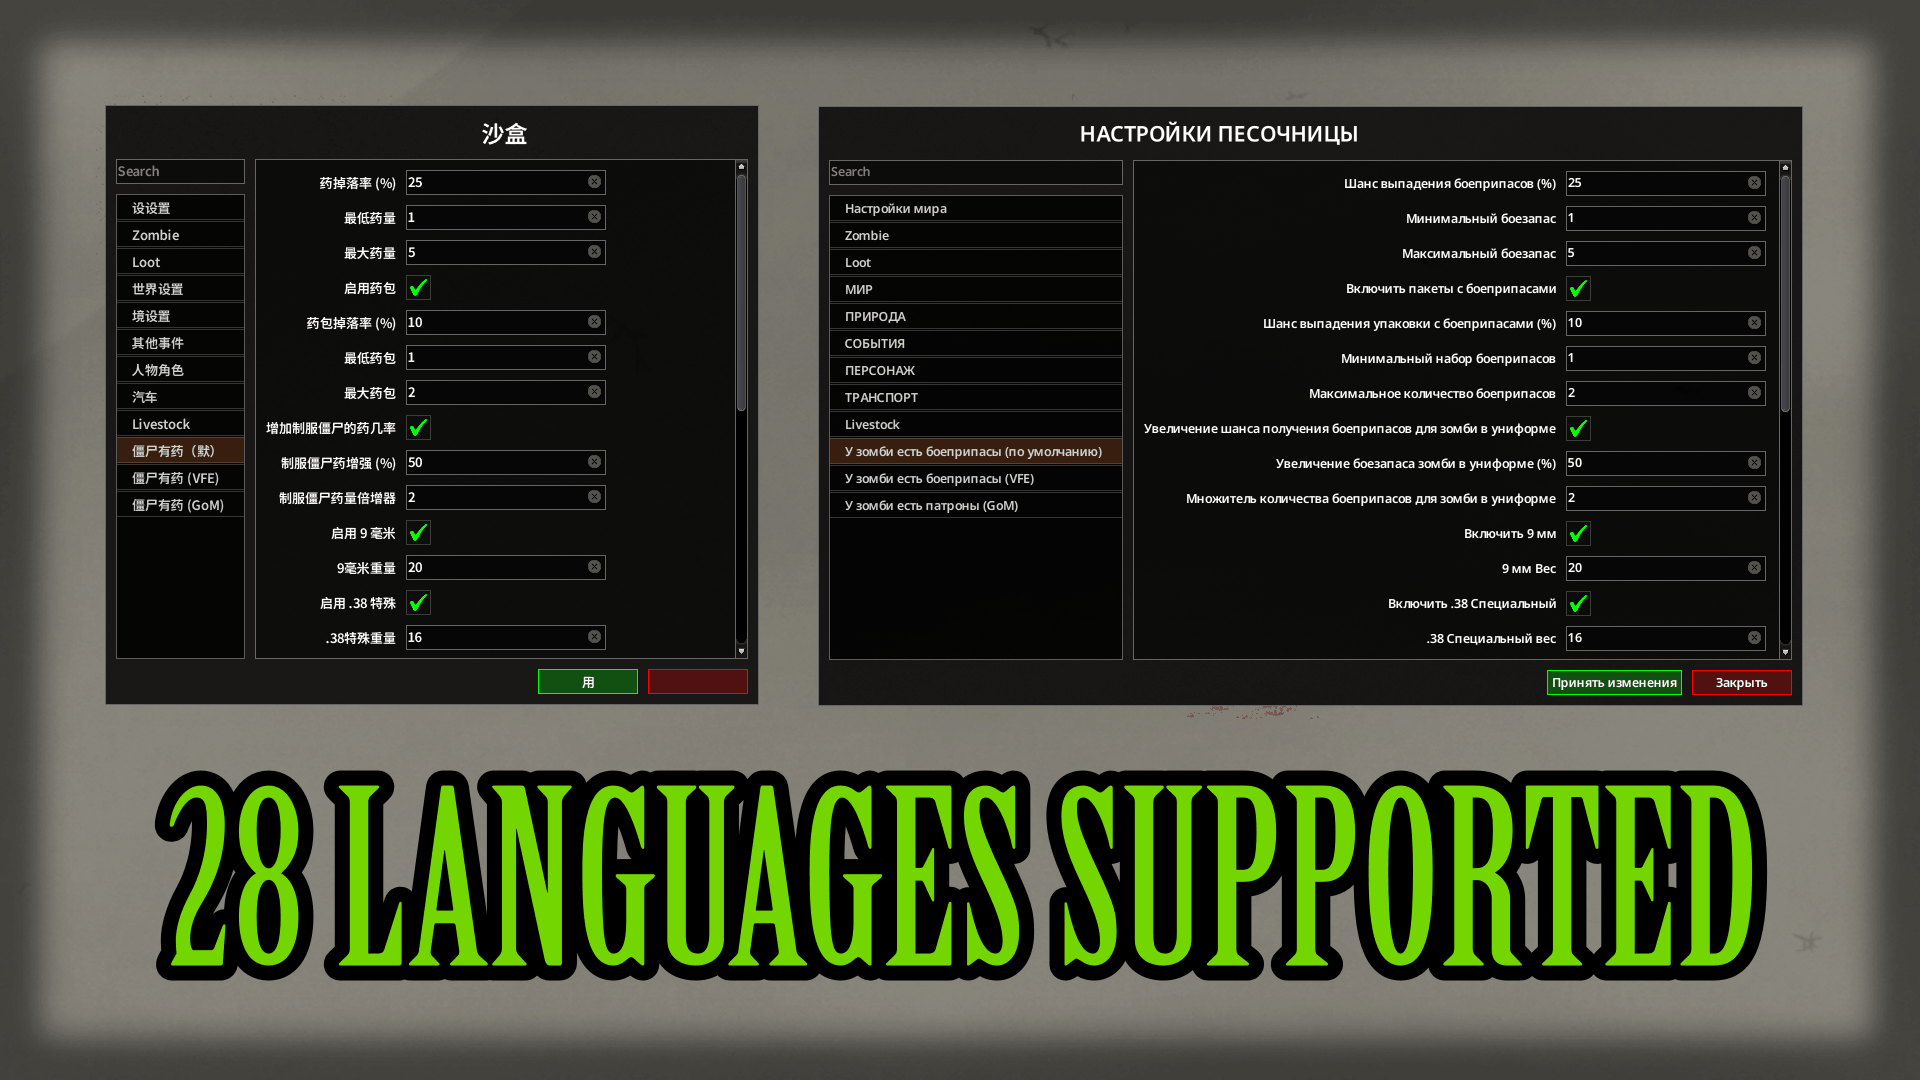
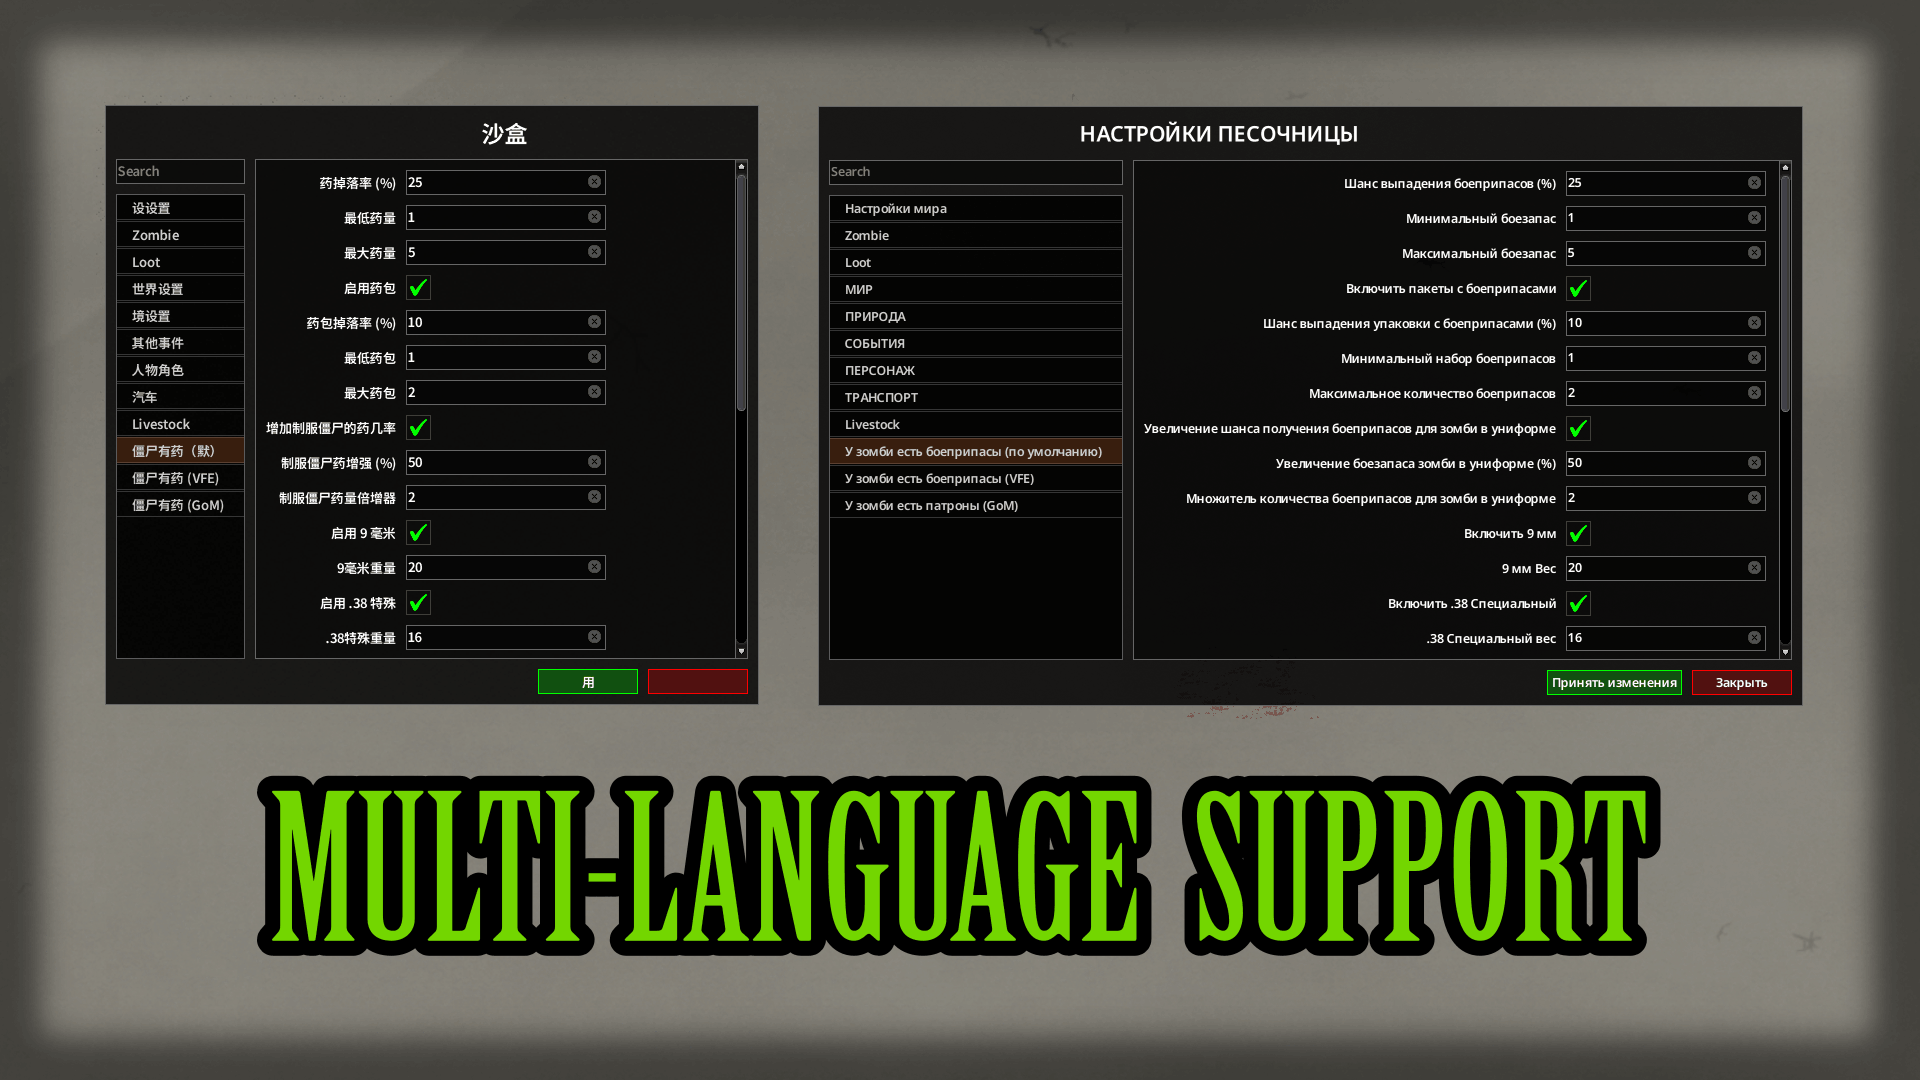
Update Translation Images/Text

Changed region(s): [[0.0625, 0.7028, 0.9375, 0.9167]]

diff --git a/docs/mods/npc-tiles.md b/docs/mods/npc-tiles.md
@@ -31,7 +31,7 @@ NPC Tiles is a **Build 42 Compatibility Port** of [Destiny & Vass's original NPC
 - Tile picker window with a scrollable sprite grid for choosing which figure to place
 - Ability to choose and change Container NPC Icon
 - Griefer Proof Tiles (Cannot be set on fire, dismantled, picked up, Sledgehammered or destroyed)
-- Translations for all 27 PZ-supported languages
+- Multi-Language Support. Translations Available: AR, CA, CH, CN, CS, DA, DE, EN, ES, FI, FR, HU, ID, IT, JP, KO, NL, NO, PH, PL, PT, PTBR, RO, RU, TH, TR, UA
 
 ## Installation
 